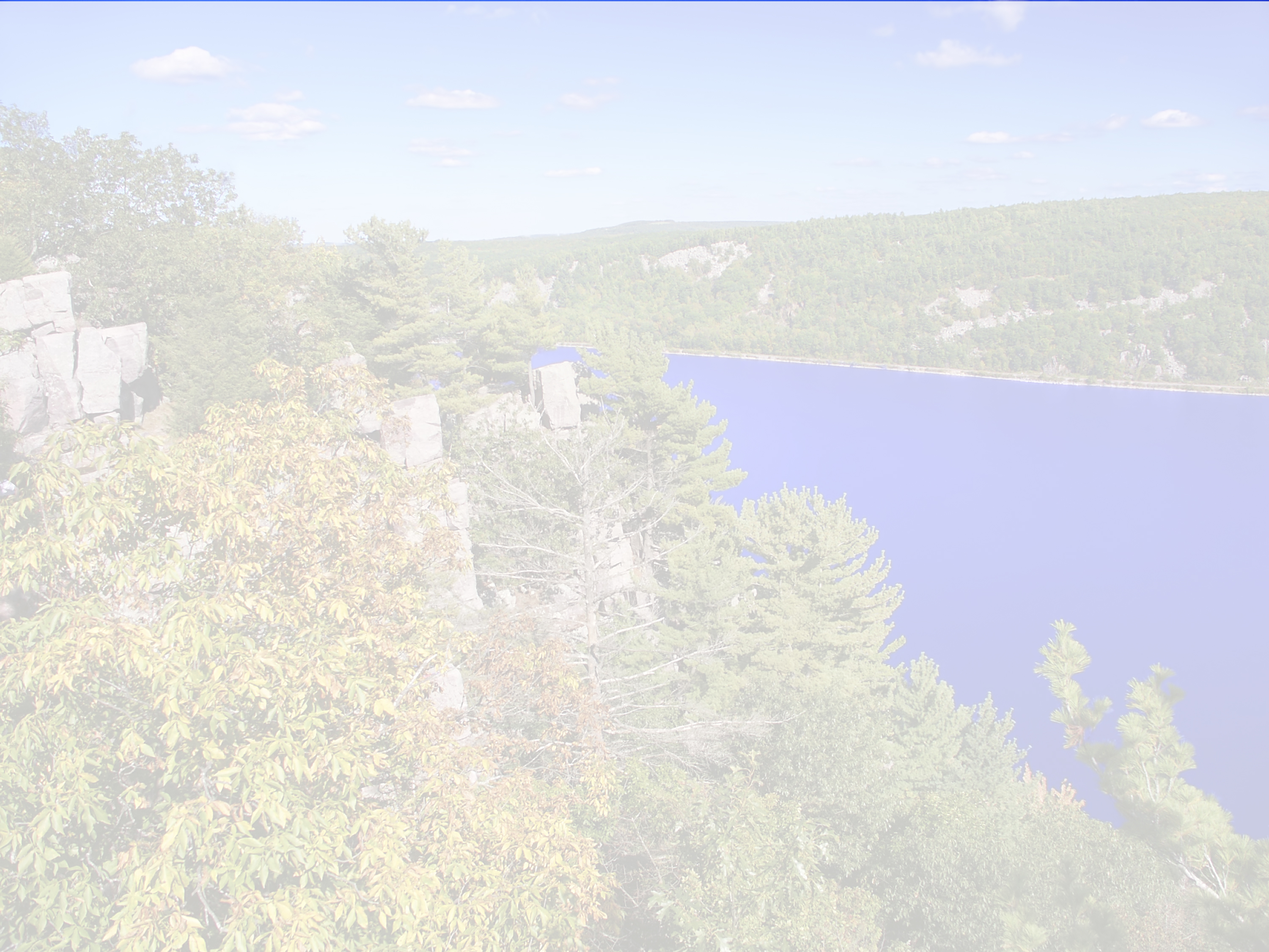
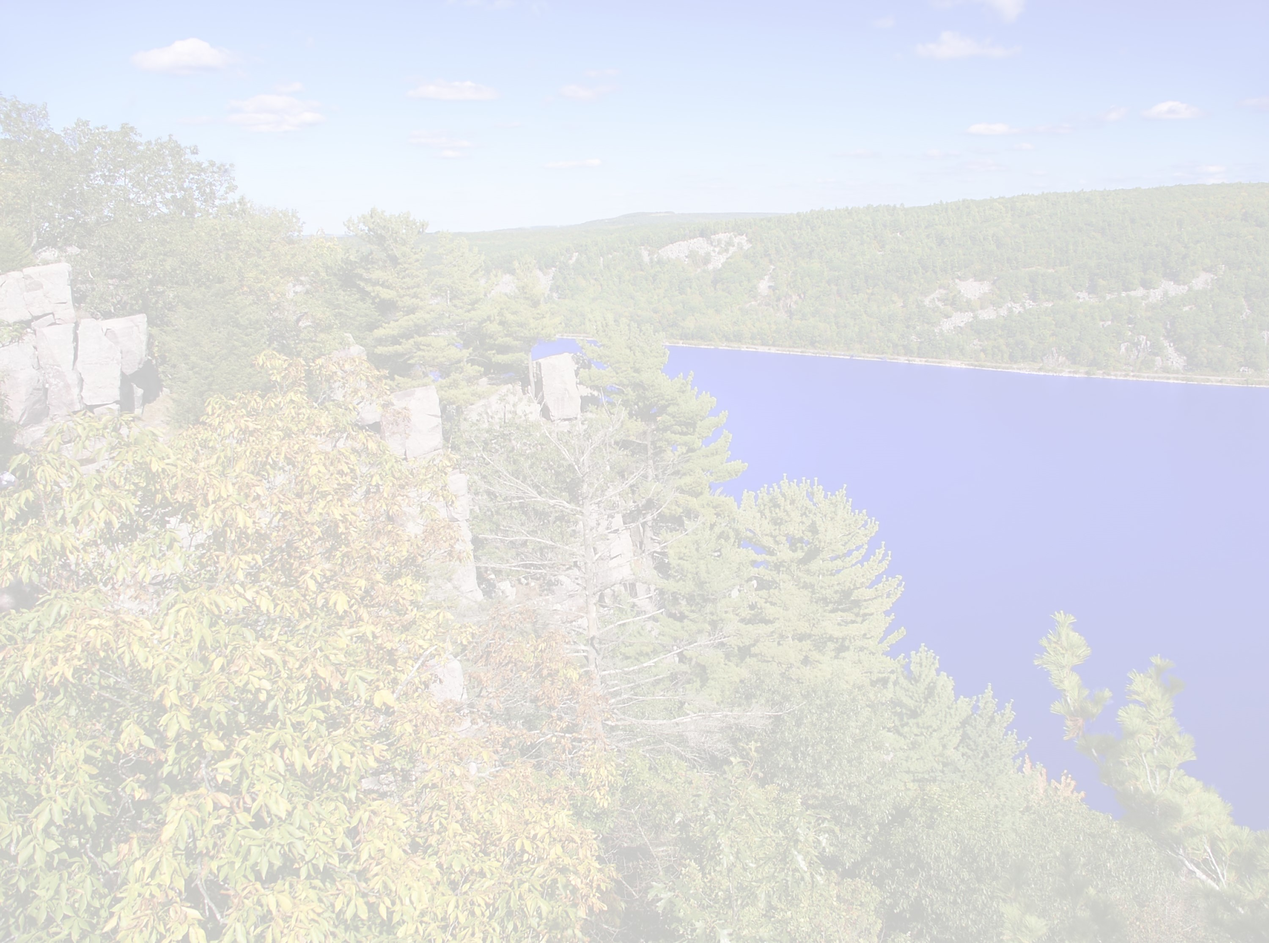
changed nav background color, and profile shadow color

diff --git a/contact.html b/contact.html
@@ -28,8 +28,8 @@
                             <h4 class="subHead">UI/UX Developer</h4>
                         </div>
                             <ul class="nav">
-                                <li class="nav-item"><a href="index.html" class="nav-link">Home</a></li>
-                                <li class="nav-item" style="border-left: 1px solid lightgray; border-right: 1px solid lightgray;"><a href="portfolio.html" class="nav-link">Portfolio</a></li>
+                                <li class="nav-item"><a href="index.html" class="nav-link">Home</a></li><br>
+                                <li class="nav-item"><a href="portfolio.html" class="nav-link">Portfolio</a></li><br>
                                 <li class="nav-item"><a href="class-projects.html" class="nav-link">Class Assignments</a></li><br>
                                 <li class="nav-item"><a href="contact.html" class="nav-link">Contact</a></li><br>
                                 <a href="https://github.com/MissWibbon"><img src="./assets/images/github.svg" style="max-width: 30px; margin-left: 15px;"></a>
@@ -39,7 +39,7 @@
                 </div>    
         <div class="col-8">
                 <div class="col">
-                    <section class="aboutMe" style="margin:auto; ">
+                    <section class="aboutMe" style="margin:auto;">
                         <h3 style="text-align: center; border-bottom: solid 5px lightgrey; width: 100%;">Contact</h3>
                         <form>
                             <div class="form-group">

diff --git a/index.html b/index.html
@@ -28,10 +28,10 @@
                             <h4 class="subHead">UI/UX Developer</h4>
                         </div>
                             <ul class="nav">
-                                <li class="nav-item"><a href="index.html" class="nav-link">Home</a></li>
-                                <li class="nav-item" style="border-left: 1px solid lightgray; border-right: 1px solid lightgray;"><a href="portfolio.html" class="nav-link">Portfolio</a></li>
-                                <li class="nav-item"><a href="contact.html" class="nav-link">Contact</a></li><br>
+                                <li class="nav-item"><a href="index.html" class="nav-link">Home</a></li><br>
+                                <li class="nav-item"><a href="portfolio.html" class="nav-link">Portfolio</a></li><br>
                                 <li class="nav-item"><a href="class-projects.html" class="nav-link">Class Assignments</a></li><br>
+                                <li class="nav-item"><a href="contact.html" class="nav-link">Contact</a></li><br>
                                 <a href="https://github.com/MissWibbon"><img src="./assets/images/github.svg" style="max-width: 30px; margin-left: 15px;"></a>
                             </ul>
                         </div>

diff --git a/portfolio.html b/portfolio.html
@@ -29,10 +29,10 @@
                             <h4 class="subHead">UI/UX Developer</h4>
                         </div>
                             <ul class="nav">
-                                <li class="nav-item"><a href="index.html" class="nav-link">Home</a></li>
-                                <li class="nav-item" style="border-left: 1px solid lightgray; border-right: 1px solid lightgray;"><a href="portfolio.html" class="nav-link">Portfolio</a></li>
-                                <li class="nav-item"><a href="contact.html" class="nav-link">Contact</a></li><br>
+                                <li class="nav-item"><a href="index.html" class="nav-link">Home</a></li><br>
+                                <li class="nav-item"><a href="portfolio.html" class="nav-link">Portfolio</a></li><br>
                                 <li class="nav-item"><a href="class-projects.html" class="nav-link">Class Assignments</a></li><br>
+                                <li class="nav-item"><a href="contact.html" class="nav-link">Contact</a></li><br>
                                 <a href="https://github.com/MissWibbon"><img src="./assets/images/github.svg" style="max-width: 30px; margin-left: 15px;"></a>
                             </ul>
                         </div>

diff --git a/class-projects.html b/class-projects.html
@@ -29,8 +29,8 @@
                                 <h4 class="subHead">UI/UX Developer</h4>
                             </div>
                             <ul class="nav">
-                                <li class="nav-item"><a href="index.html" class="nav-link">Home</a></li>
-                                <li class="nav-item" style="border-left: 1px solid lightgray; border-right: 1px solid lightgray;"><a href="portfolio.html" class="nav-link">Portfolio</a></li>
+                                <li class="nav-item"><a href="index.html" class="nav-link">Home</a></li><br>
+                                <li class="nav-item"><a href="portfolio.html" class="nav-link">Portfolio</a></li><br>
                                 <li class="nav-item"><a href="class-projects.html" class="nav-link">Class Assignments</a></li><br>
                                 <li class="nav-item"><a href="contact.html" class="nav-link">Contact</a></li><br>
                                 <a href="https://github.com/MissWibbon"><img src="./assets/images/github.svg" style="max-width: 30px; margin-left: 15px;"></a>

diff --git a/assets/css/main.css b/assets/css/main.css
@@ -1,5 +1,5 @@
 html {
-    background-color: #d6d6d6;
+    background-color: #919191;
 }
 body {
     height: 0;
@@ -39,7 +39,7 @@ li {
     margin: auto;
 }
 body {
-    background-color: #d6d6d6;
+    background-color: #919191;
     margin: 0;
 }
 .one:hover {
@@ -88,7 +88,7 @@ body {
     color: #333 !important;
 }
 a.nav-link:hover {
-    color: #814BAF !important;
+    color: #cebdff !important;
 }
 a {
     text-decoration: none !important;
@@ -161,7 +161,7 @@ input, textarea {
     max-width: 150px;
     margin-left: 7% !important;
     padding-bottom: 0px !important;
-    box-shadow: 5px 5px 10px #a8afba;
+    box-shadow: 5px 5px 10px #494063;
     transition: all .3s linear;
 }
 .profile-pic:hover {
@@ -179,6 +179,7 @@ input, textarea {
 section.aboutMe {
     min-height: 330px;
     margin-bottom: 110px;
+    height: 550px;
 }
 .rainbow {
     transform: rotate(90deg);
@@ -278,7 +279,9 @@ li.nav-item {
         width: 100% !important;
     }
     
-    
+    section.aboutMe {
+        height: 625px !important;
+    }
 }
 @media only screen and (max-width: 640px) {
     .nav {

diff --git a/test.html b/test.html
@@ -29,8 +29,8 @@
                             <div style="background-image: url('./assets/images/leaf2.svg'); background-size: cover; opacity: .5; height: 400px; width: 100%;"></div>    
 
                             <ul class="navBar">
-                                <li class="nav-item"><a href="index.html" class="nav-link">Home</a></li>
-                                <li class="nav-item" style="border-left: 1px solid lightgray; border-right: 1px solid lightgray;"><a href="portfolio.html" class="nav-link">Portfolio</a></li>
+                                <li class="nav-item"><a href="index.html" class="nav-link">Home</a></li><br>
+                                <li class="nav-item"><a href="portfolio.html" class="nav-link">Portfolio</a></li><br>
                                 <li class="nav-item"><a href="contact.html" class="nav-link">Contact</a></li><br>
                                 <a href="https://github.com/MissWibbon"><img src="./assets/images/github.svg" style="max-width: 30px; margin-left: 15px;"></a>
                             </ul>

diff --git a/code-samples.html b/code-samples.html
@@ -28,7 +28,7 @@
                             </div>
                             <ul class="navBar">
                                 <li class="nav-item"><a href="index.html" class="nav-link">Home</a></li>
-                                <li class="nav-item" style="border-left: 1px solid lightgray; border-right: 1px solid lightgray;"><a href="portfolio.html" class="nav-link">Portfolio</a></li>
+                                <li class="nav-item"><a href="portfolio.html" class="nav-link">Portfolio</a></li>
                                 <li class="nav-item"><a href="contact.html" class="nav-link">Contact</a></li><br>
                                 <a href="https://github.com/MissWibbon"><img src="./assets/images/github.svg" style="max-width: 30px;"></a>
                             </ul>
